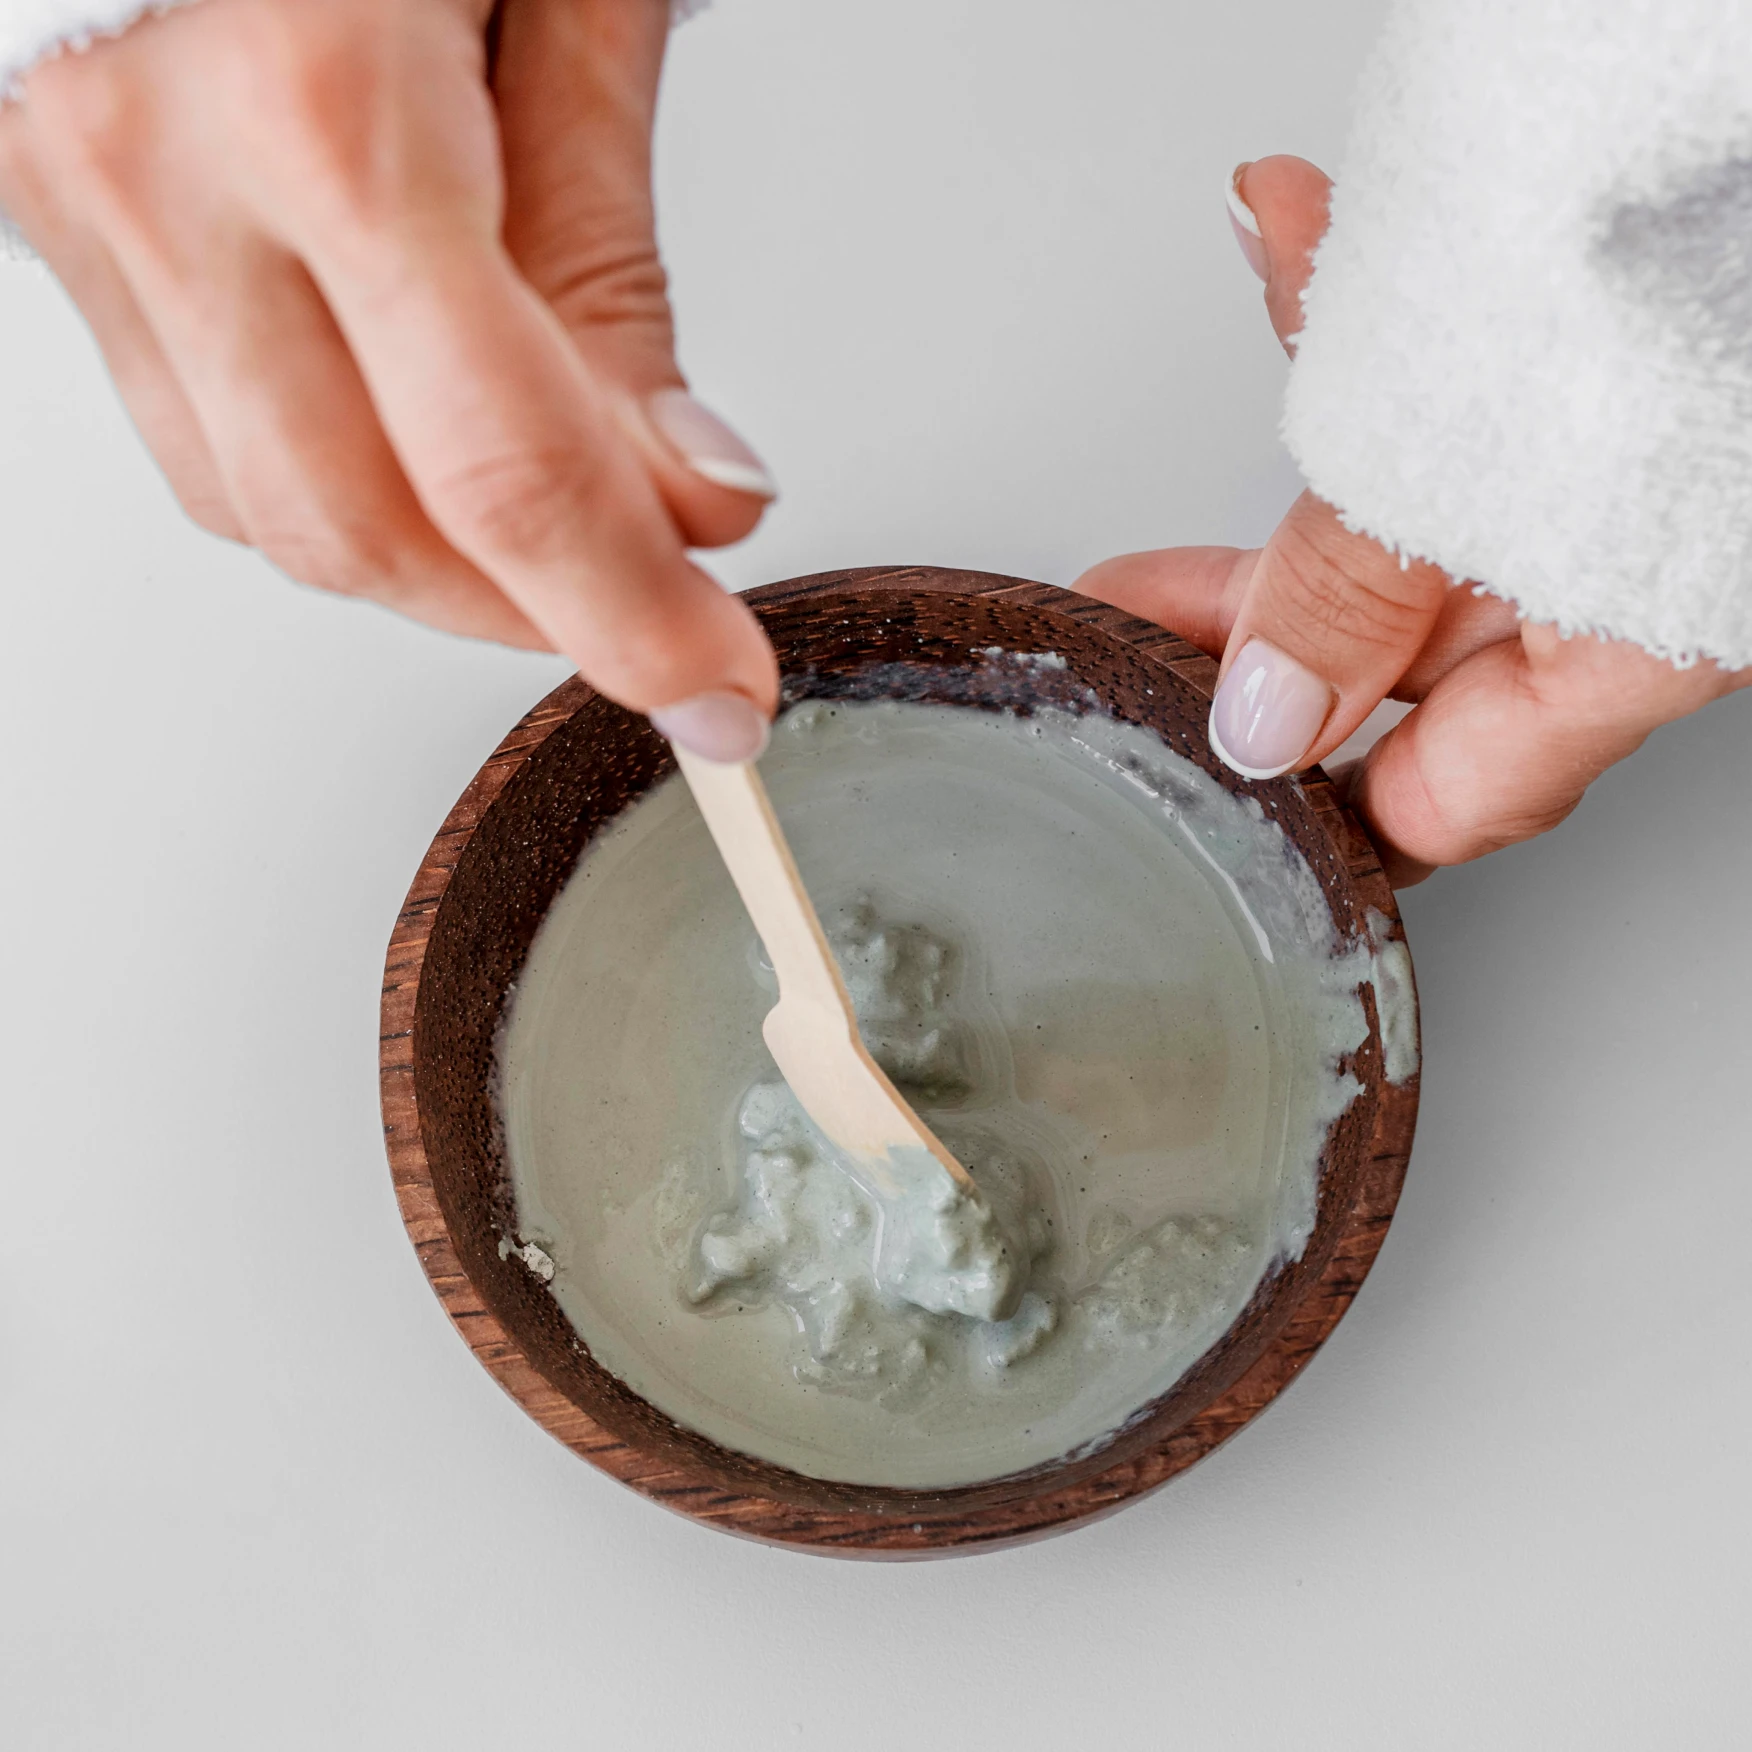
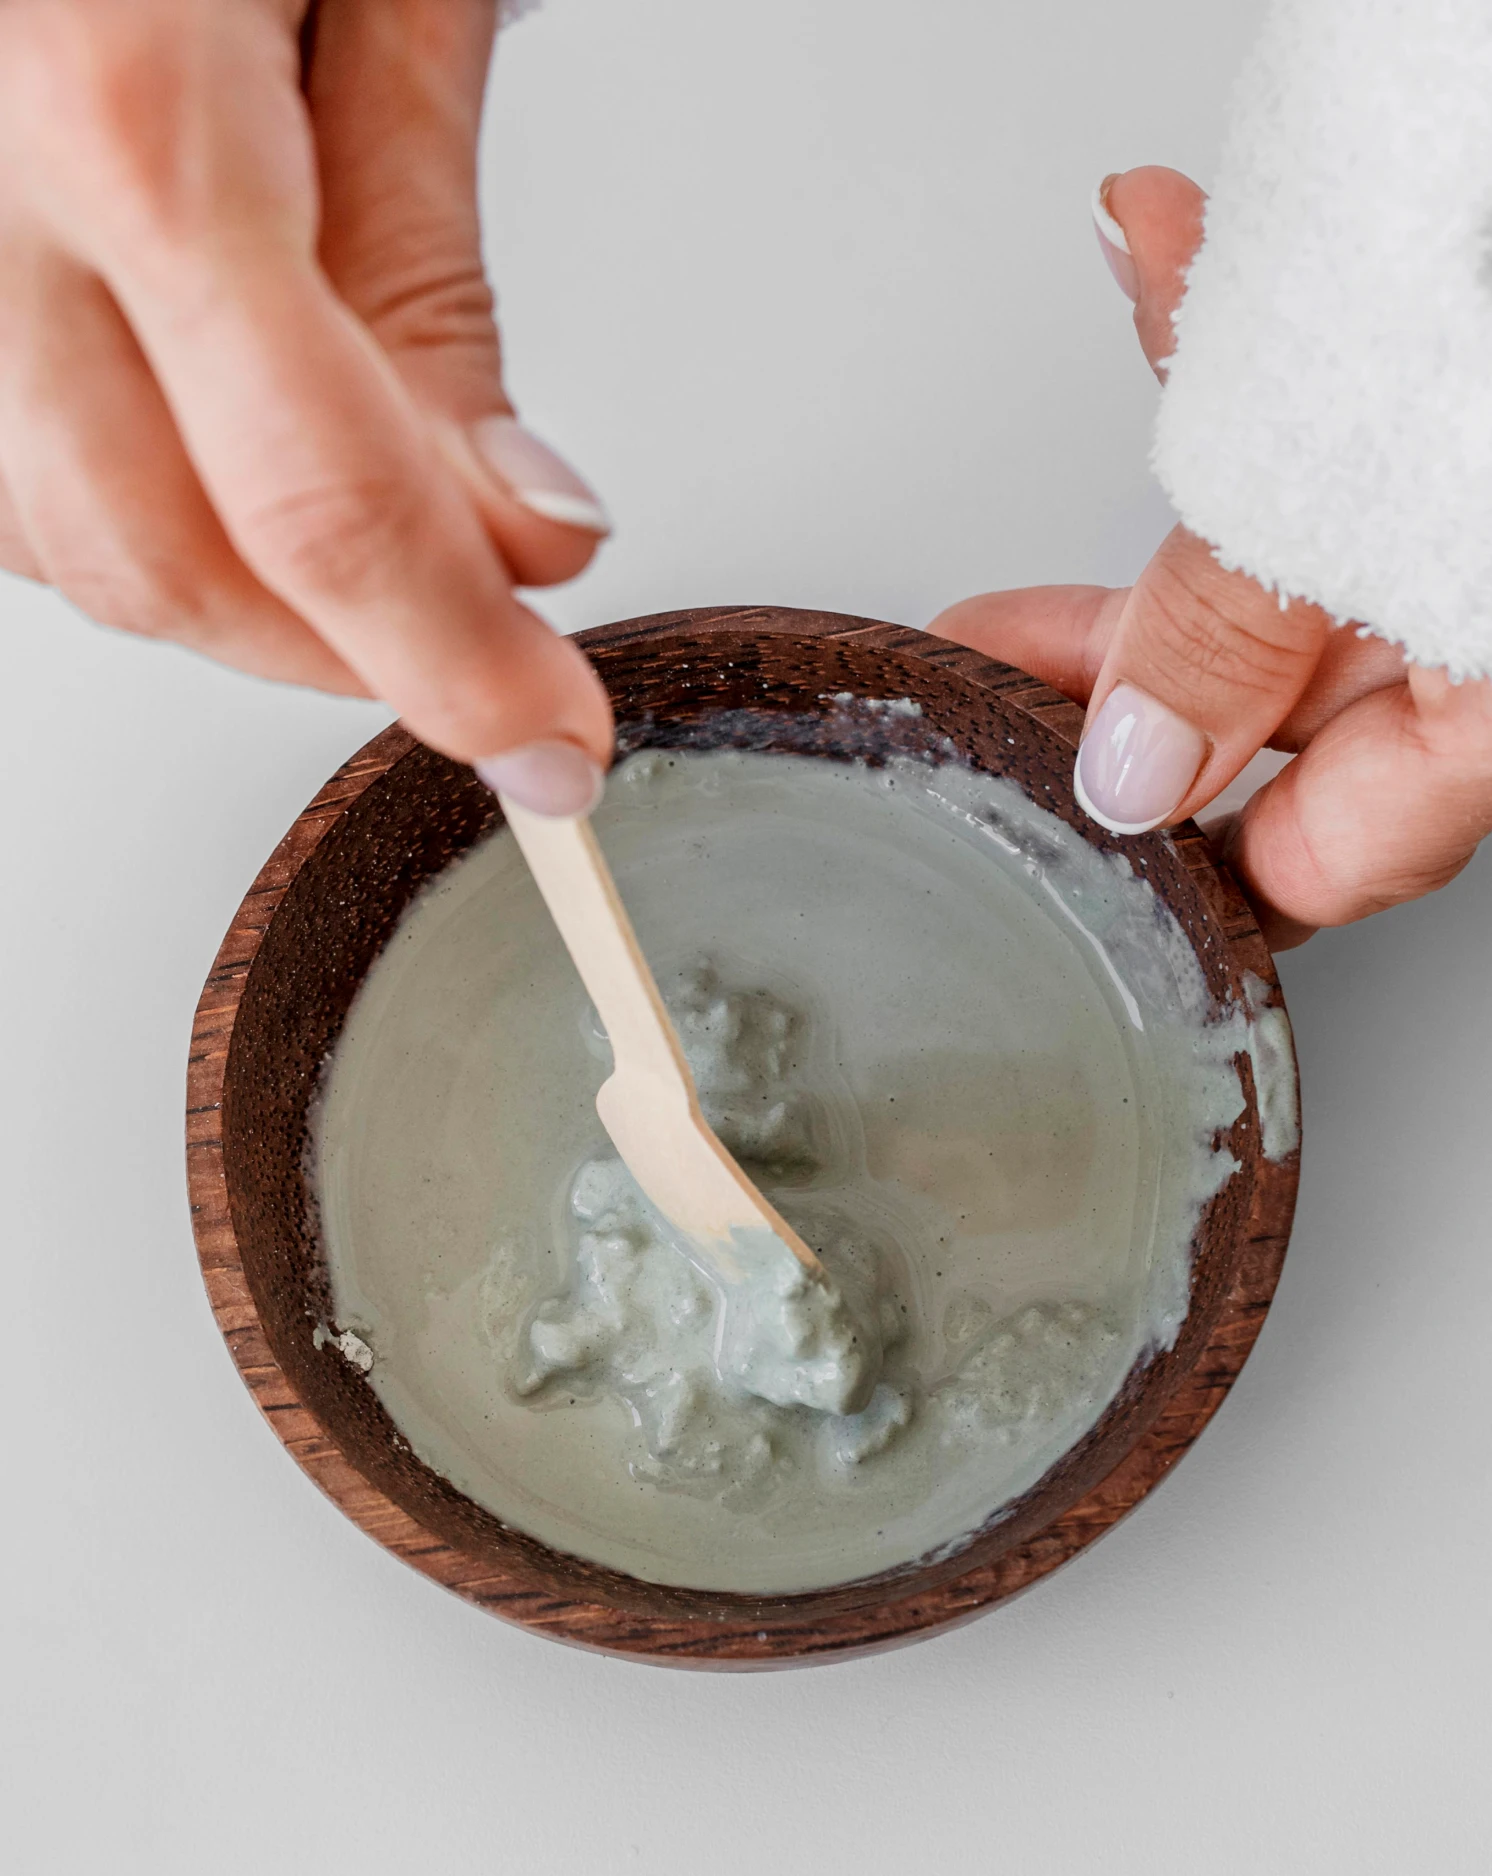
ajustando imagens

diff --git a/blog.html b/blog.html
@@ -128,7 +128,7 @@
         <!-- Título centralizado -->
         <div class="text-center mb-5 wow fadeIn" data-wow-delay="0.1s">
           <h2 class="display-5">Essência</h2>
-          <p class="text-highlight mb-0">
+          <p class="text-highlight mb-0" style="font-weight: 400">
             • Autenticidade • Identidade • Beleza •
           </p>
         </div>
@@ -142,10 +142,12 @@
               alt="Blog 1"
               style="
                 width: 100%;
-                max-width: 700px;
+                max-width: 350px;
                 height: auto;
                 object-fit: cover;
                 border-radius: 15px;
+                display: block; /* remove gaps */
+                margin: 0 auto;
               "
             />
           </div>
@@ -153,14 +155,16 @@
           <!-- Texto -->
           <div class="col-lg-6 wow fadeIn" data-wow-delay="0.4s">
             <h2 class="display-6 mb-3">Histôria</h2>
-            <p>
+            <p class="mb-3">
               Do laboratório ao espelho: a jornada de uma biomédica que escolheu
-              transformar autoestima. Desde pequena, sempre fui fascinada por
+              transformar autoestima. <br> </p>
+              <p>Desde pequena, sempre fui fascinada por
               ciência. Enquanto outras crianças brincavam de casinha, eu estava
               montando “laboratórios” com potes de shampoo e corante
               alimentício. Meu sonho era entender o corpo humano, como tudo
               funcionava, o que cada célula fazia e como a ciência podia
               curar.<br />
+              <p class="mb-3"></p>
               Anos depois, formada em Biomedicina, mergulhei no universo das
               análises clínicas. Amava o que fazia, mas, no fundo, sentia falta
               de algo: o contato humano. Eu via os resultados dos exames, mas
@@ -183,11 +187,13 @@
               técnicas de harmonização, toxina botulínica e bioestimuladores.
               Cada paciente se tornou um novo propósito. Percebi que não
               aplicava apenas produtos, aplicava confiança, amor-próprio e
-              autoconhecimento. <br />
+              autoconhecimento. <br> </p>
+              <p class="mb-3"></p>
               Com o tempo, descobri que cada atendimento é único. Por trás de
               cada rosto existe uma história, uma insegurança e um sonho. E é
               justamente isso que me motiva todos os dias: transformar
               autoestima e devolver confiança. <br />
+              <p class="mb-3"></p>
               Não é sobre mudar rostos ou corpos, é sobre revelar o melhor de
               cada pessoa.
             </p>
@@ -200,10 +206,12 @@
               alt="Blog 2"
               style="
                 width: 100%;
-                max-width: 700px;
+                max-width: 350px;
                 height: auto;
                 object-fit: cover;
                 border-radius: 15px;
+                display: block; /* remove gaps */
+                margin: 0 auto;
               "
             />
           </div>
@@ -233,8 +241,8 @@
               style="background-image: url('img/20.webp')"
             ></div>
             <div class="fase-content">
-              <h5>Fase dos +20 anos</h5>
-              <p>
+              <h5 class="mb-4">Fase dos +20 anos</h5>
+              <p class="text-highlight mb-0" style="font-weight: 400;">
                 Essa faixa etária é caracterizada por uma tendência maior a
                 oleosidade na pele. Por isso é importante limpá-la 2 vezes ao
                 dia e utilizar sempre hidratantes livres de óleo.
@@ -249,8 +257,8 @@
               style="background-image: url('img/30.webp')"
             ></div>
             <div class="fase-content">
-              <h5>Fase dos +30 anos</h5>
-              <p>
+              <h5 class="mb-4">Fase dos +30 anos</h5>
+              <p class="text-highlight mb-0" style="font-weight: 400;">
                 Aqui ocorrem os primeiros sinais de envelhecimento da pele,
                 surgindo os primeiros sintomas de amadurecimento. O uso de
                 anti-rugas com vitaminas C é recomendado, além de proteção solar
@@ -266,8 +274,8 @@
               style="background-image: url('img/40.webp')"
             ></div>
             <div class="fase-content">
-              <h5>Fase dos +40 anos</h5>
-              <p>
+              <h5 class="mb-4">Fase dos +40 anos</h5>
+              <p class="text-highlight mb-0" style="font-weight: 400;">
                 Tratamento da desidratação e das manchas na pele é necessário o
                 uso de ativos como ácido retinóico, glicólico. hialurônico e
                 vitamina C. Eles ajudam a combater manchas e a reduzir os
@@ -283,8 +291,8 @@
               style="background-image: url('img/50.webp')"
             ></div>
             <div class="fase-content">
-              <h5>Fase dos +50 anos</h5>
-              <p>
+              <h5 class="mb-4">Fase dos +50 anos</h5>
+              <p class="text-highlight mb-0" style="font-weight: 400;">
                 Neste momento, a pele da mulher| pode ficar flácida e
                 desidratada, o que indica o uso prolongado de ativos hidratantes
                 como ácido hialurônico. e ácido retinóico. Esses ativos ajudam a
@@ -300,8 +308,8 @@
               style="background-image: url('img/60.webp')"
             ></div>
             <div class="fase-content">
-              <h5>Fase dos +60 anos</h5>
-              <p>
+              <h5 class="mb-4">Fase dos +60 anos</h5>
+              <p class="text-highlight mb-0" style="font-weight: 400;">
                 Com o amadurecimento a pele. desenvolve mais sulcos e rugas
                 precisando de cuidados especiais. Usar ácidos retinóico,
                 glicólico el hialurônico, hidratar a pele e evitar feridas, que
@@ -595,7 +603,6 @@
                 src="img/argPreta.webp"
                 alt="Argila Preta"
                 class="img-fluid"
-                style="width: 220px"
               />
             </div>
             <div class="argila-text">
@@ -619,7 +626,6 @@
                 src="img/argCinza.webp"
                 alt="Argila Cinza"
                 class="img-fluid"
-                style="width: 280px"
               />
             </div>
             <div class="argila-text">
@@ -723,9 +729,9 @@
             valorizados.
           </p>
           <p>
-            ✨ A estética moderna é sobre cuidar de si com consciência,
-            equilíbrio e tecnologia - sempre com o objetivo de realçar o que
-            cada pessoa tem de mais bonito: sua autenticidade.
+            - A estética moderna é sobre cuidar de si com consciência,
+            equilíbrio e tecnologia, sempre com o objetivo de realçar o que cada
+            pessoa tem de mais bonito: sua autenticidade.
           </p>
         </div>
       </div>
